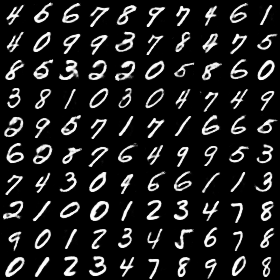
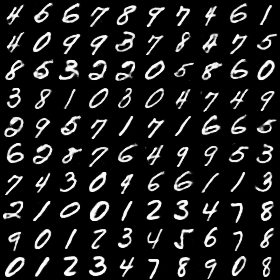
This is a failed trial. The generated images are still quite off. Possible reason is that the second term penalize the output of the distribution instead of the parameter of the distribution. Will test the official implementation

diff --git a/main.py b/main.py
@@ -44,8 +44,8 @@ def main():
             total_loss = 0
             for _, (data, _) in enumerate(train_loader):
                 optimizer.zero_grad()
-                outputs, _ = model(data.view(data.size(0), -1).to(device))
-                loss = criterion(outputs, data.view(data.size(0), -1).to(device))
+                outputs, latents = model(data.view(data.size(0), -1).to(device))
+                loss = criterion(outputs, data.view(data.size(0), -1).to(device)) + criterion(latents, torch.zeros_like(latents))
 
                 loss.backward()
                 torch.nn.utils.clip_grad_norm_(model.parameters(), 1.0)
@@ -82,7 +82,9 @@ def main():
             images = visualize_mnist_data(data[:100])
             Image.fromarray(images).save("data_first_batch.png")
             for i in range(3):
-                outputs, _ = model(data)
+                outputs, z = model(data)
+                print(z[0])
+                # input()
                 images = visualize_mnist_data(outputs[:100])
                 Image.fromarray(images).save(f"outputs_first_batch_{i}.png")
 
@@ -91,10 +93,10 @@ def main():
     with torch.no_grad():
         for _, (data, _) in enumerate(test_loader):
             num_samples = data.size(0)
-            mean = torch.randn(num_samples, 30).to(device)
-            std = torch.randn(num_samples, 30).to(device)
+            x = torch.randn(num_samples, 30).to(device)
+            print(x[0])
             for i in range(3):
-                outputs = model.sample(mean, std)
+                outputs = model.sample(x)
                 images = visualize_mnist_data(outputs[:100])
                 Image.fromarray(images).save(f"sampled_first_batch_{i}.png")
 

diff --git a/model.py b/model.py
@@ -19,22 +19,15 @@ class MLP(nn.Module):
         super(MLP, self).__init__()
         self.encoder_layers = nn.ModuleList([Layer(input_size, output_size) for input_size, output_size in zip(encoder_layers[:-1], encoder_layers[1:])])
         self.decoder_layers = nn.ModuleList([Layer(input_size, output_size) for input_size, output_size in zip(decoder_layers[:-2], decoder_layers[1:-1])])
-        self.mean_layer = Layer(encoder_layers[-1], decoder_layers[0])
-        self.std_var_layer = Layer(encoder_layers[-1], decoder_layers[0])
         self.final_layer = nn.Linear(decoder_layers[-2], decoder_layers[-1])
         self.sigmoid = nn.Sigmoid()
         
         
     def forward(self, x):
-        x = self.encode(x)
+        z = self.encode(x)
 
-        mean = self.mean_layer(x)
-        std = self.std_var_layer(x)
-
-        x = torch.randn_like(mean) * std + mean
-
-        x = self.decode(x)
-        return x, (mean, std)
+        x = self.decode(z)
+        return x, z
 
     def encode(self, x):
         for layer in self.encoder_layers:
@@ -48,13 +41,12 @@ class MLP(nn.Module):
         emb = self.sigmoid(emb)
         return emb
 
-    def sample(self, mean, std):
-        x = mean + torch.randn_like(mean) * std
+    def sample(self, x):
 
         x = self.decode(x)
         return x
 
 
 if __name__ == "__main__":
-    model = MLP(encoder_layers=[784, 1000, 500, 250, 30], decoder_layers=[30, 250, 500, 1000, 784]).to(device)
+    model = MLP(encoder_layers=[784, 1000, 500, 250, 30], decoder_layers=[30, 250, 500, 1000, 784])
     print(model)
